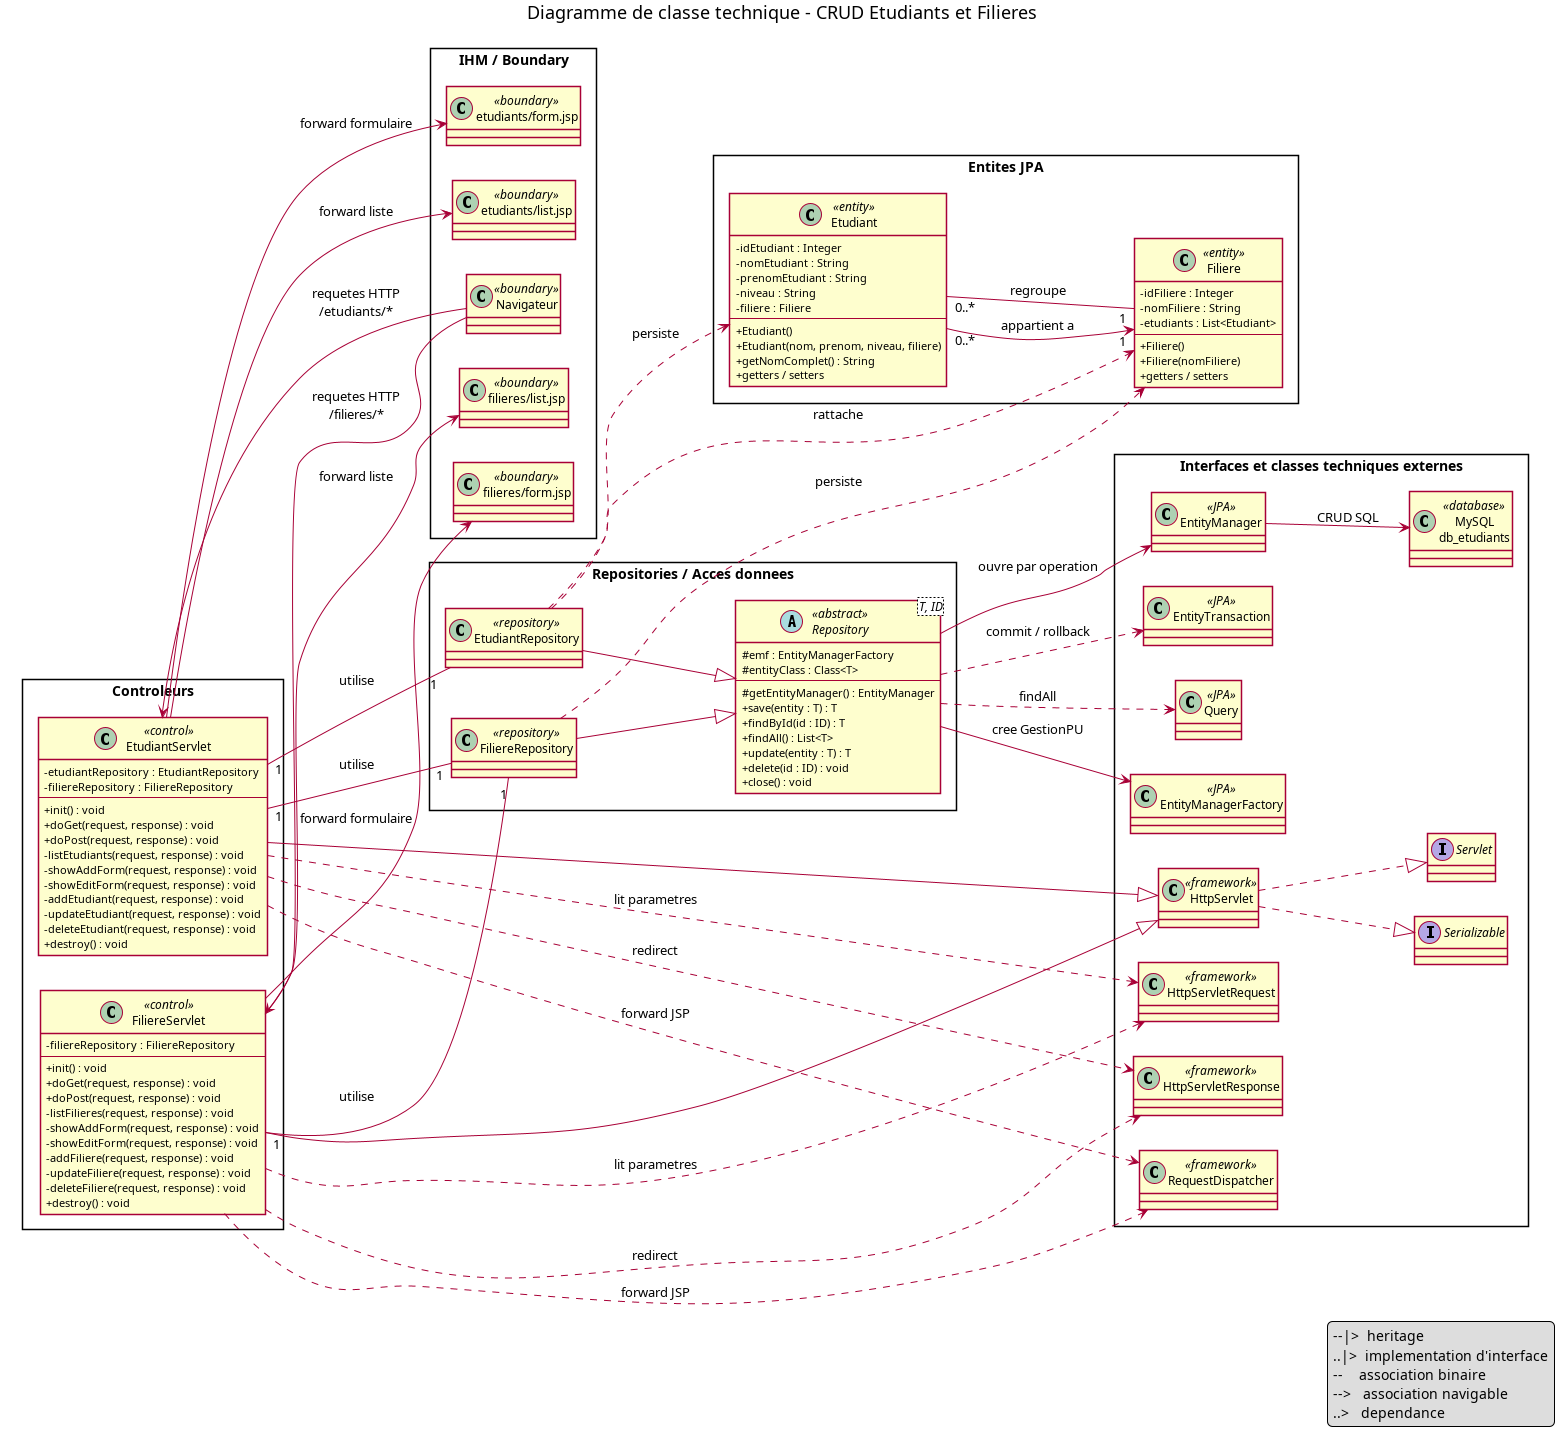
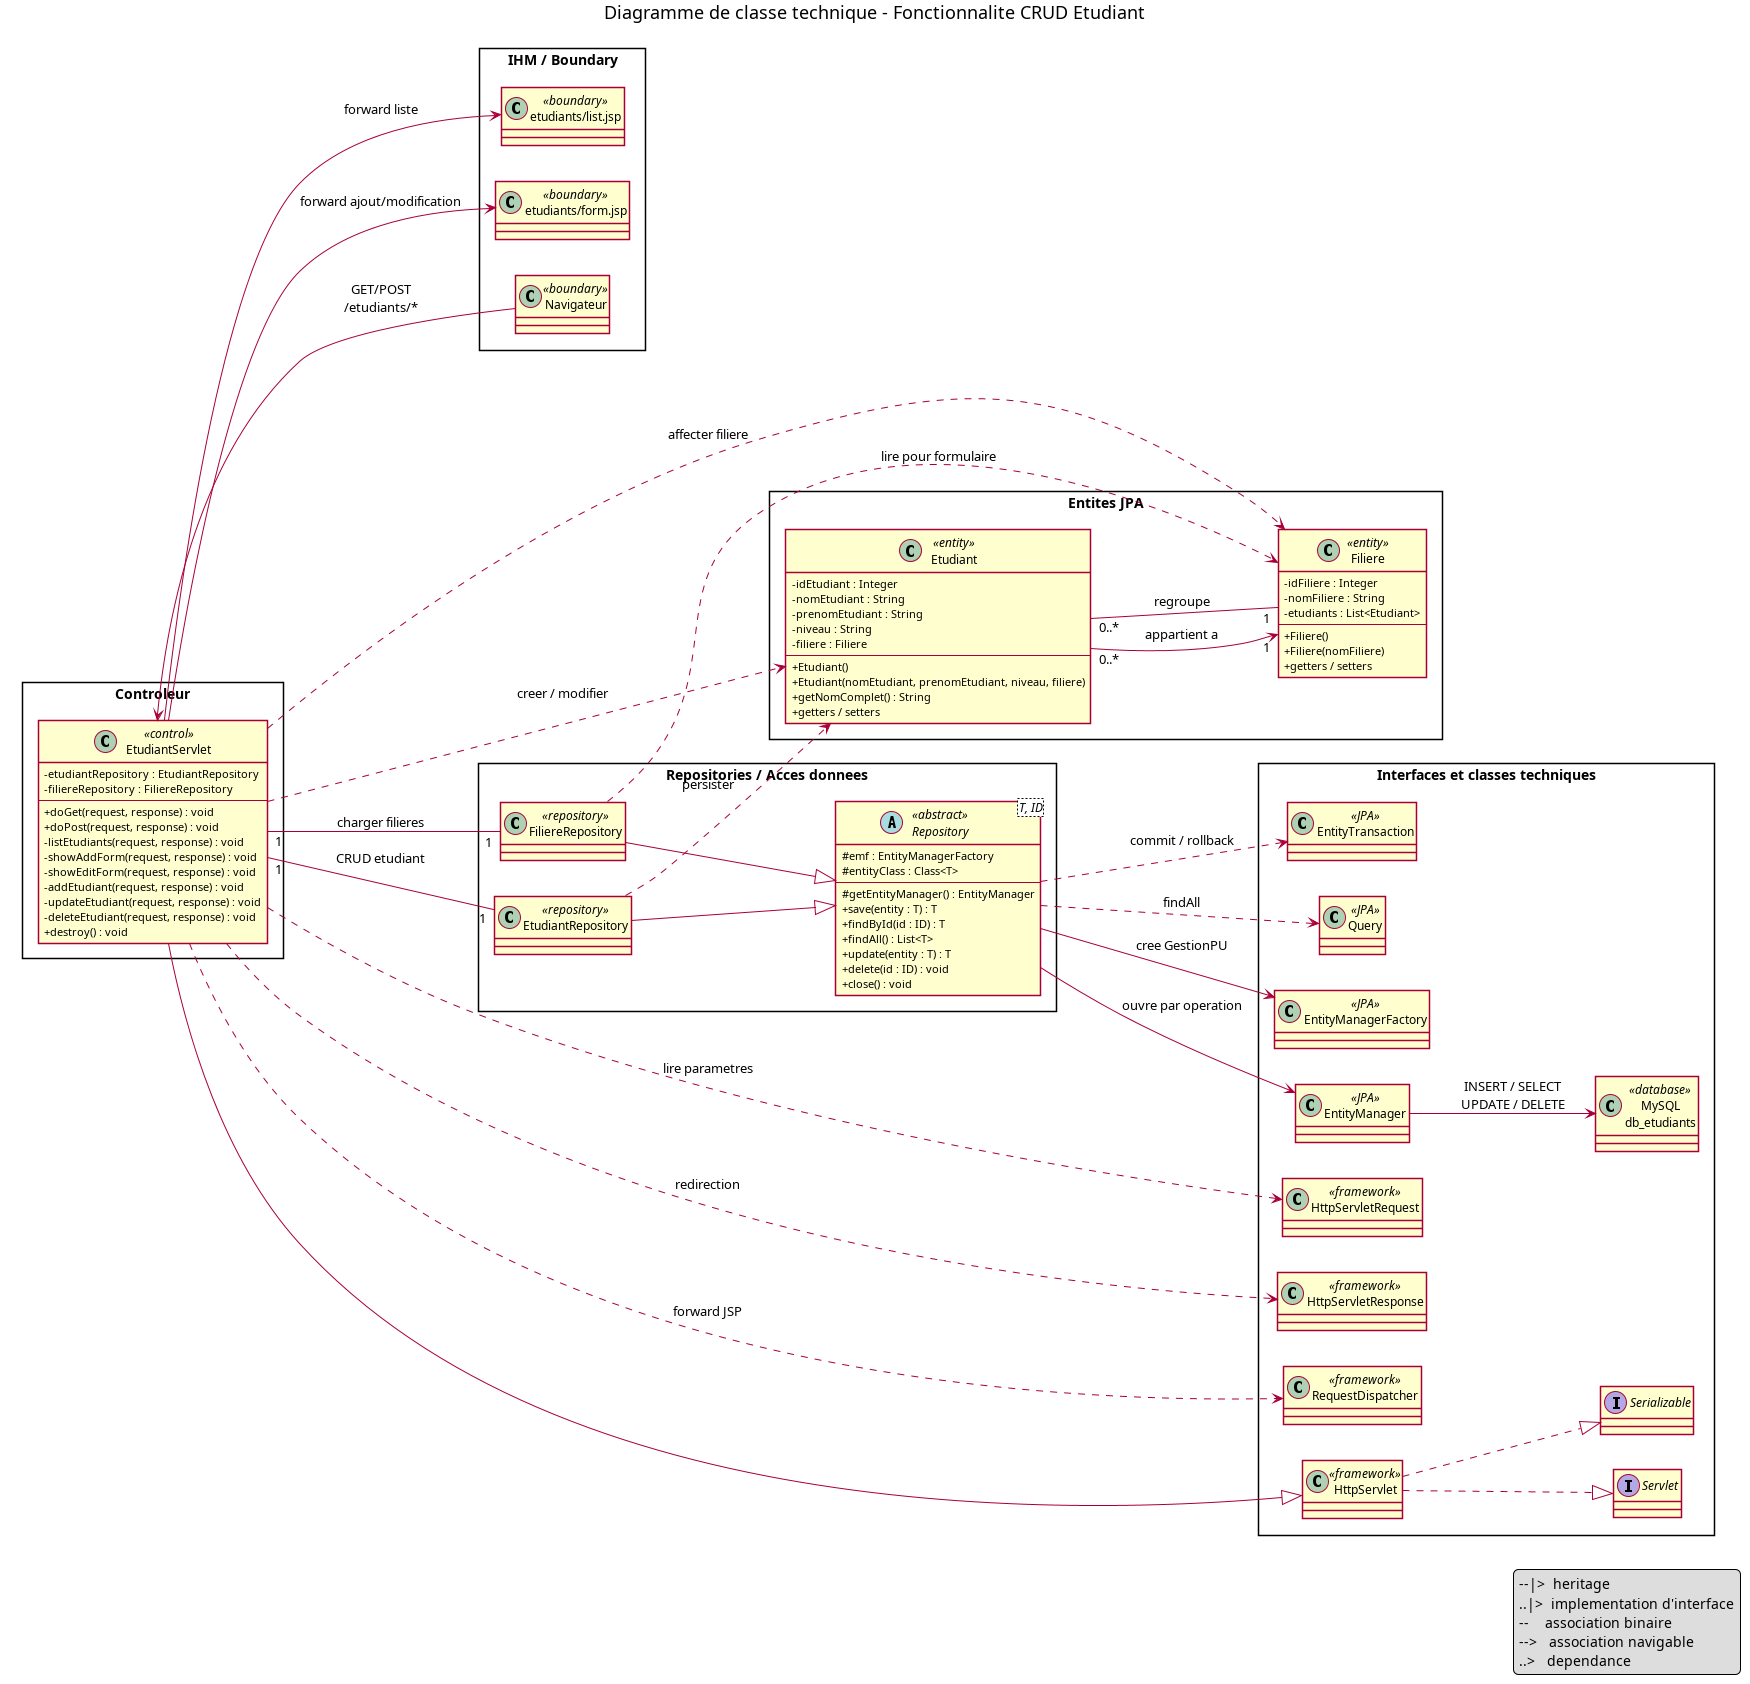
Limit technical class diagram to student CRUD

diff --git a/docs/uml/README.md b/docs/uml/README.md
@@ -11,7 +11,7 @@ Le perimetre presente uniquement deux modules :
 - `use-case.puml` : cas d'utilisation CRUD des etudiants et des filieres.
 - `classe-conceptuel.puml` : concepts metier Etudiant, Filiere et Niveau.
 - `classe-analyse.puml` : presentation, controleurs, entites, repositories et base MySQL limites au CRUD.
-- `classe-technique.puml` : diagramme de classe technique avec IHM, controleurs, entites, classe abstraite, interfaces et dependances JPA/Servlet.
+- `classe-technique.puml` : diagramme de classe technique limite a une seule fonctionnalite, le CRUD etudiant.
 - `sequence-conceptuel.puml` : sequence conceptuelle d'un cycle CRUD.
 - `sequence-analyse.puml` : sequence d'analyse du CRUD etudiant dans l'architecture Servlet/JPA.
 
